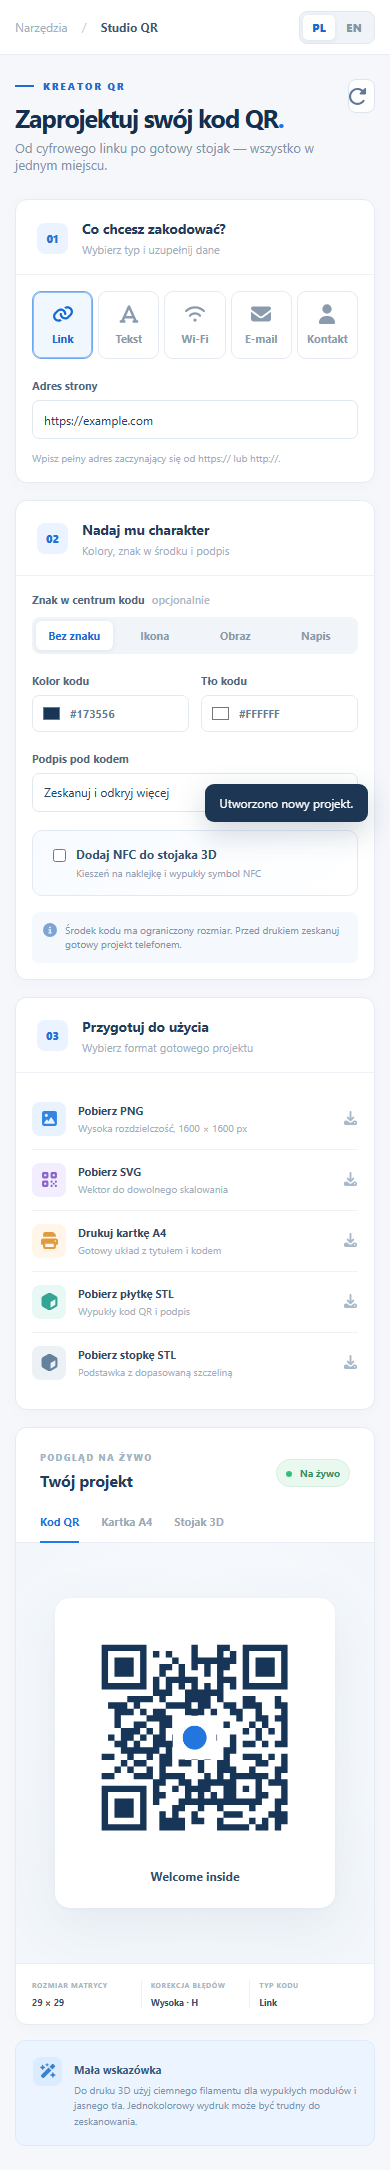
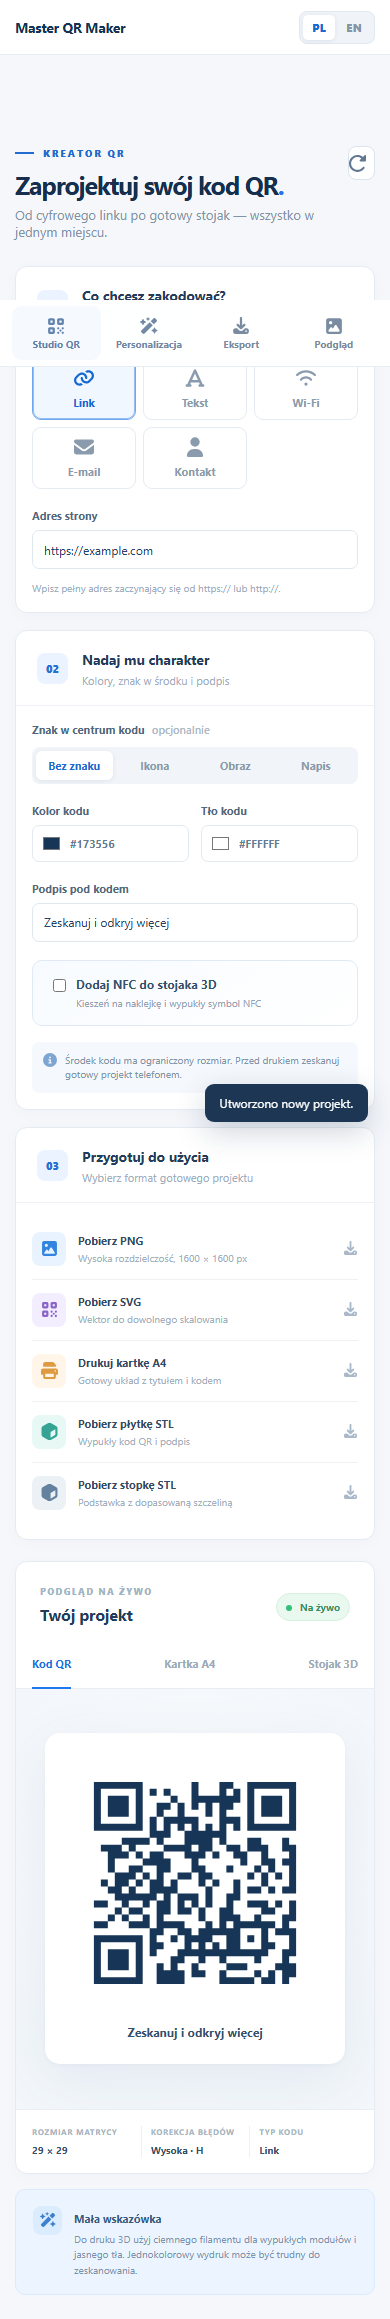
Fix responsive layout on mobile and tablet

diff --git a/app.js b/app.js
@@ -4,7 +4,7 @@
   const messages = {
     pl: {
       pageTitle: "Master QR Maker — generator kodów QR", pageDescription: "Generator kodów QR z personalizacją, wydrukiem A4 i modelami stojaków 3D.",
-      workspace: "PRZESTRZEŃ ROBOCZA", tools: "Narzędzia", studio: "Studio QR", navCustomize: "Personalizacja", navExport: "Eksport",
+      workspace: "PRZESTRZEŃ ROBOCZA", tools: "Narzędzia", studio: "Studio QR", navCustomize: "Personalizacja", navExport: "Eksport", navPreview: "Podgląd",
       eyebrow: "KREATOR QR", heading: "Zaprojektuj swój kod QR", subheading: "Od cyfrowego linku po gotowy stojak — wszystko w jednym miejscu.", newProject: "Nowy projekt",
       section1Title: "Co chcesz zakodować?", section1Sub: "Wybierz typ i uzupełnij dane", section2Title: "Nadaj mu charakter", section2Sub: "Kolory, znak w środku i podpis", section3Title: "Przygotuj do użycia", section3Sub: "Wybierz format gotowego projektu",
       modeUrl: "Link", modeText: "Tekst", modeWifi: "Wi-Fi", modeEmail: "E-mail", modeContact: "Kontakt",
@@ -38,7 +38,7 @@
     },
     en: {
       pageTitle: "Master QR Maker — QR code generator", pageDescription: "Create custom QR codes, A4 prints and 3D stand models.",
-      workspace: "WORKSPACE", tools: "Tools", studio: "QR Studio", navCustomize: "Customize", navExport: "Export",
+      workspace: "WORKSPACE", tools: "Tools", studio: "QR Studio", navCustomize: "Customize", navExport: "Export", navPreview: "Preview",
       eyebrow: "QR CREATOR", heading: "Design your QR code", subheading: "From a digital link to a ready to print stand — all in one place.", newProject: "New project",
       section1Title: "What would you like to encode?", section1Sub: "Choose a type and enter the details", section2Title: "Make it yours", section2Sub: "Colors, center mark and caption", section3Title: "Ready to use", section3Sub: "Choose an output format",
       modeUrl: "Link", modeText: "Text", modeWifi: "Wi-Fi", modeEmail: "Email", modeContact: "Contact",
@@ -95,6 +95,7 @@
     const staticText = [
       [".nav-label", "workspace"], [".breadcrumbs strong", "studio"],
       ['.sidebar nav a[href="#studio"] span', "studio"], ['.sidebar nav a[href="#personalizacja"] span', "navCustomize"], ['.sidebar nav a[href="#eksport"] span', "navExport"],
+      ['.mobile-nav a[href="#studio"] span', "studio"], ['.mobile-nav a[href="#personalizacja"] span', "navCustomize"], ['.mobile-nav a[href="#eksport"] span', "navExport"], ['.mobile-nav a[href="#podglad"] span', "navPreview"],
       [".page-heading p", "subheading"], [".editor-column > .panel:first-child .panel-head h2", "section1Title"], [".editor-column > .panel:first-child .panel-head p", "section1Sub"],
       ["#personalizacja .panel-head h2", "section2Title"], ["#personalizacja .panel-head p", "section2Sub"], ["#eksport .panel-head h2", "section3Title"], ["#eksport .panel-head p", "section3Sub"],
       ['[data-mode="url"] span', "modeUrl"], ['[data-mode="text"] span', "modeText"], ['[data-mode="wifi"] span', "modeWifi"], ['[data-mode="email"] span', "modeEmail"], ['[data-mode="contact"] span', "modeContact"],
@@ -140,6 +141,7 @@
     q(".segmented")?.setAttribute("aria-label", lang === "pl" ? "Rodzaj znaku" : "Center mark type");
     q(".preview-tabs")?.setAttribute("aria-label", lang === "pl" ? "Rodzaj podglądu" : "Preview type");
     q(".sidebar nav")?.setAttribute("aria-label", lang === "pl" ? "Nawigacja główna" : "Main navigation");
+    q(".mobile-nav")?.setAttribute("aria-label", lang === "pl" ? "Nawigacja mobilna" : "Mobile navigation");
     q(".editor-column")?.setAttribute("aria-label", lang === "pl" ? "Ustawienia generatora" : "Generator settings");
     q(".preview-column")?.setAttribute("aria-label", lang === "pl" ? "Podgląd projektu" : "Design preview");
     $("darkColor").setAttribute("aria-label", t("darkColor"));
@@ -546,7 +548,7 @@
     document.querySelectorAll(".preview-view").forEach(v => v.classList.toggle("active", v.id===button.dataset.preview+"View"));
   }));
   document.querySelectorAll('[data-lang]').forEach(button => button.addEventListener("click", () => setLanguage(button.dataset.lang)));
-  const navItems = [...document.querySelectorAll(".sidebar nav .nav-item")];
+  const navItems = [...document.querySelectorAll(".sidebar nav .nav-item, .mobile-nav .nav-item")];
   let navLockUntil = 0;
   function setNavActive(id) {
     navItems.forEach(item => {
@@ -567,11 +569,12 @@
       scrollFrame = 0;
       if (Date.now() < navLockUntil) return;
       let active = "studio";
-      for (const id of ["personalizacja", "eksport"]) if ($(id).getBoundingClientRect().top <= 170) active = id;
+      const sections = window.innerWidth <= 550 ? ["personalizacja", "eksport", "podglad"] : ["personalizacja", "eksport"];
+      for (const id of sections) if ($(id).getBoundingClientRect().top <= 170) active = id;
       setNavActive(active);
     });
   }, { passive: true });
-  if (["studio", "personalizacja", "eksport"].includes(window.location?.hash?.slice(1))) setNavActive(window.location.hash.slice(1));
+  if (["studio", "personalizacja", "eksport", "podglad"].includes(window.location?.hash?.slice(1))) setNavActive(window.location.hash.slice(1));
   ["darkColor","lightColor"].forEach(id => $(id).addEventListener("input", () => { $(id==="darkColor"?"darkHex":"lightHex").textContent=$(id).value.toUpperCase(); queueRender(); }));
   $("caption").addEventListener("input", queueRender);
   $("nfcEnabled").addEventListener("change", () => { $("nfcOptions").hidden=!$("nfcEnabled").checked; queueRender(); });

diff --git a/styles.css b/styles.css
@@ -14,3 +14,34 @@
 .wifi-details-switch{margin-top:3px;font-weight:700}.wifi-details-hint{margin:-5px 0 0 21px}.nfc-card{border:1px solid #e1eaf4;background:linear-gradient(145deg,#f7fbff,#fff);border-radius:10px;padding:15px 16px;margin-top:18px}.nfc-switch{align-items:flex-start;cursor:pointer}.nfc-switch input{margin-top:3px}.nfc-switch strong,.nfc-switch small{display:block}.nfc-switch strong{font-size:12px;color:#34516d}.nfc-switch small{font-size:10px;color:#92a3b4;margin-top:4px}.nfc-options{display:grid;gap:13px;border-top:1px solid #e8eff7;margin-top:15px;padding-top:15px}.nfc-options[hidden],.stand-nfc[hidden]{display:none!important}.nfc-options .field-hint{margin:1px 0 0;color:#657e98}.nfc-options input[type=number]{appearance:textfield}.nfc-options input::-webkit-inner-spin-button{opacity:1}
 .qr-caption,.stand-caption,#paperCaption{overflow-wrap:anywhere}.qr-caption .caption-line{margin-top:4px}.qr-caption .wifi-line{font-size:11px;font-weight:700}.paper-center #paperCaption{font-size:8px;font-weight:750;color:#48627d;margin:10px 0;line-height:1.4}.paper-center #paperCaption .caption-line{margin-top:2px}.stand-plaque{height:auto;min-height:299px;padding:13px 10px 15px;gap:5px}.stand-caption{margin-top:5px;font-size:11px}.stand-caption .caption-line{margin-top:3px}.stand-caption .wifi-line{font-size:10px}.stand-nfc{display:flex;align-items:center;gap:5px;color:#1b75d9;font-size:10px;font-weight:850;letter-spacing:1px;margin-top:3px}.stand-nfc svg{width:20px;height:20px;stroke:none;fill:currentColor}
 @media(max-width:550px){.icon-picker{gap:5px}.icon-choice{font-size:9px}.stand-plaque{max-width:65vw}.stand-qr{max-width:100%;height:auto;aspect-ratio:1}}
+
+.mobile-brand,.mobile-nav{display:none}
+@media(max-width:1000px){
+  .studio-grid{grid-template-columns:minmax(0,1fr)}
+  .preview-panel{position:static}
+}
+@media(max-width:550px){
+  .breadcrumbs{display:none}
+  .mobile-brand{display:block;color:#153153;font-size:14px;letter-spacing:-.3px}
+  .mobile-nav{display:grid;grid-template-columns:repeat(4,minmax(0,1fr));gap:4px;padding:6px 12px;background:#fff;border-bottom:1px solid #e8edf3;position:sticky;top:0;z-index:5}
+  .mobile-nav .nav-item{height:54px;min-width:0;padding:5px 2px;display:flex;flex-direction:column;gap:4px;justify-content:center;text-align:center;font-size:10px;line-height:1.1}
+  .mobile-nav .nav-item span{display:block}
+  .mobile-nav .nav-item svg{width:18px;height:18px;flex:0 0 18px}
+  #personalizacja,#eksport,#podglad{scroll-margin-top:78px}
+  .studio-grid{display:grid;grid-template-columns:minmax(0,1fr)}
+  .editor-column{min-width:0;margin-bottom:0}
+  .type-grid{grid-template-columns:repeat(3,minmax(0,1fr));gap:7px}
+  .type-option{min-height:62px;height:auto;font-size:11px}
+  .field-row:not(.colors-row){grid-template-columns:minmax(0,1fr)}
+  .preview-tabs{justify-content:space-between;gap:8px;padding:0 16px}
+  .preview-tab{min-height:40px;padding-bottom:8px}
+  .qr-presentation{width:min(86%,300px)}
+  .preview-meta span{font-size:8px}
+  .preview-meta strong{font-size:10px}
+}
+@media(max-width:360px){
+  .segmented{display:grid;grid-template-columns:repeat(2,minmax(0,1fr))}
+  .segment{min-height:36px}
+  .preview-meta{padding:13px 10px}
+  .preview-meta>div{padding-left:7px}
+}

diff --git a/index.html b/index.html
@@ -44,7 +44,13 @@
     </aside>
 
     <main class="main" id="studio">
-      <header class="topbar"><div class="breadcrumbs">Narzędzia <span>/</span> <strong>Studio QR</strong></div><div class="top-actions"><div class="lang-switch" role="group" aria-label="Language / Język"><button type="button" data-lang="pl" class="active" aria-pressed="true">PL</button><button type="button" data-lang="en" aria-pressed="false">EN</button></div></div></header>
+      <header class="topbar"><div class="breadcrumbs">Narzędzia <span>/</span> <strong>Studio QR</strong></div><strong class="mobile-brand">Master QR Maker</strong><div class="top-actions"><div class="lang-switch" role="group" aria-label="Language / Język"><button type="button" data-lang="pl" class="active" aria-pressed="true">PL</button><button type="button" data-lang="en" aria-pressed="false">EN</button></div></div></header>
+      <nav class="mobile-nav" aria-label="Nawigacja mobilna">
+        <a class="nav-item active" href="#studio" aria-current="location"><svg><use href="#i-grid"/></svg><span>Studio QR</span></a>
+        <a class="nav-item" href="#personalizacja"><svg><use href="#i-spark"/></svg><span>Personalizacja</span></a>
+        <a class="nav-item" href="#eksport"><svg><use href="#i-down"/></svg><span>Eksport</span></a>
+        <a class="nav-item" href="#podglad"><svg><use href="#i-image"/></svg><span>Podgląd</span></a>
+      </nav>
       <div class="workspace">
         <div class="page-heading"><div><div class="eyebrow"><span class="eyebrow-line"></span> KREATOR QR</div><h1>Zaprojektuj swój kod QR<span>.</span></h1><p>Od cyfrowego linku po gotowy stojak — wszystko w jednym miejscu.</p></div><button id="resetBtn" class="btn btn-quiet"><svg><use href="#i-reset"/></svg> Nowy projekt</button></div>
 
@@ -96,7 +102,7 @@
             </div>
           </section>
 
-          <section class="preview-column" aria-label="Podgląd projektu">
+          <section class="preview-column" id="podglad" aria-label="Podgląd projektu">
             <div class="preview-panel"><div class="preview-head"><div><div class="preview-kicker">PODGLĄD NA ŻYWO</div><h2>Twój projekt</h2></div><span class="live-pill"><i></i> Na żywo</span></div>
               <div class="preview-tabs" role="tablist" aria-label="Rodzaj podglądu"><button type="button" role="tab" class="preview-tab active" aria-selected="true" data-preview="qr">Kod QR</button><button type="button" role="tab" class="preview-tab" aria-selected="false" data-preview="paper">Kartka A4</button><button type="button" role="tab" class="preview-tab" aria-selected="false" data-preview="stand">Stojak 3D</button></div>
               <div class="preview-stage">

diff --git a/tests/browser_smoke.py b/tests/browser_smoke.py
@@ -178,11 +178,39 @@ try:
 
         page.locator("#resetBtn").click()
         page.locator('[data-preview="qr"]').click()
+        for width in [320, 360, 390, 430, 550, 551, 768, 850, 851, 900, 960, 1000, 1001, 1024, 1150]:
+            page.set_viewport_size({"width": width, "height": 844})
+            actual_width = page.evaluate("document.documentElement.scrollWidth")
+            assert actual_width <= width + 1, f"Horizontal overflow at {width}px: {actual_width}px"
+            assert page.locator(".mobile-nav").is_visible() == (width <= 550)
+            if width <= 550:
+                button_width = page.locator(".type-option").first.bounding_box()["width"]
+                assert button_width >= 65, f"QR type buttons too narrow at {width}px"
+        page.set_viewport_size({"width": 320, "height": 844})
+        for target in ["personalizacja", "eksport", "podglad", "studio"]:
+            item = page.locator(f'.mobile-nav a[href="#{target}"]')
+            item.click()
+            assert item.get_attribute("aria-current") == "location"
+            assert page.evaluate("document.documentElement.scrollWidth <= innerWidth + 1")
         page.set_viewport_size({"width": 390, "height": 844})
         page.locator("#qrPreview svg").wait_for()
         page.screenshot(path=str(ROOT / "preview-mobile.png"), full_page=True)
         assert page.evaluate("document.documentElement.scrollWidth <= innerWidth + 1")
         page.locator('[data-lang="en"]').click()
+        assert page.locator('.mobile-nav a[href="#podglad"] span').inner_text() == "Preview"
+        for width in [320, 390, 550, 851, 900]:
+            page.set_viewport_size({"width": width, "height": 844})
+            assert page.evaluate("document.documentElement.scrollWidth <= innerWidth + 1"), f"English layout overflows at {width}px"
+        page.set_viewport_size({"width": 320, "height": 844})
+        page.locator('[data-mode="wifi"]').click()
+        page.locator('[data-key="ssid"]').fill("Long guest network name 123456789")
+        page.locator('[data-key="password"]').fill("LongPassword123456789")
+        page.locator('[data-key="showDetails"]').check()
+        page.locator("#nfcEnabled").check()
+        page.locator('[data-overlay="icon"]').click()
+        page.locator('[data-preview="stand"]').click()
+        assert page.evaluate("document.documentElement.scrollWidth <= innerWidth + 1")
+        page.locator("#resetBtn").click()
         page.locator("#printBtn").click()
         print_markup = page.locator("iframe").last.get_attribute("srcdoc")
         assert "size:A4" in print_markup and 'lang="en"' in print_markup
